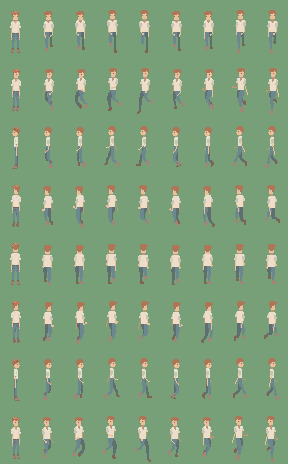
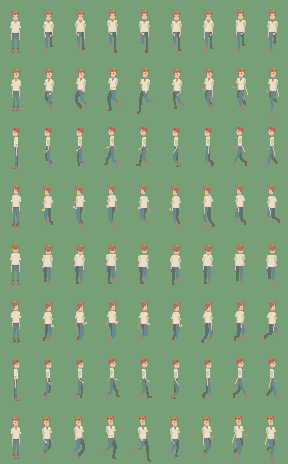
Walk frames: take the hair/face and shirt fabric detail from the standing poses
Claude-Session: https://claude.ai/code/session_01Xiux81LEqjvUithNNjQsjc

diff --git a/tools/make_hero_sheet.py b/tools/make_hero_sheet.py
@@ -73,6 +73,42 @@ for d in range(8):
     ci, fl = WALK_SRC[d]
     for r in range(8): frames[d, r + 1] = flip(walk_cells[ci, r]) if fl else walk_cells[ci, r]
 
+# ---- detail transfer: the walk frames are rougher than the standing poses, so each walk frame's head (hair texture, face, eyes) is replaced by the
+# standing pose's head of the same direction. The head is whatever lies above the first shirt pixel; it is aligned by its top row and its centre.
+SHIRT = {c for c, r in ROLE.items() if r == 'shirt'}
+def hx(px): return '%02x%02x%02x' % tuple(px[:3])
+def head_rows(c):  # (first opaque row, first shirt row)
+    rows = [y for y in range(CH) if c[y, :, 3].any()]; top = rows[0]
+    sh = next(y for y in range(CH) if any(c[y, x, 3] and hx(c[y, x]) in SHIRT for x in range(CW)))
+    return top, sh
+def head_cx(c, top, sh):
+    xs = [x for y in range(top, sh) for x in range(CW) if c[y, x, 3]]; return (min(xs) + max(xs) + 1) / 2
+for d in range(8):
+    src = frames[d, 0]; st, ss = head_rows(src); scx = head_cx(src, st, ss)
+    for f in range(1, 9):
+        c = frames[d, f]; wt, ws = head_rows(c); wcx = head_cx(c, wt, ws); dx = int(round(wcx - scx))
+        c[wt:ws, :, :] = 0                                         # clear the old head (the arms start below the first shirt row)
+        for y in range(st, ss):
+            for x in range(CW):
+                if src[y, x, 3]:
+                    ty, tx = wt + (y - st), x + dx
+                    if 0 <= ty < ws + (ss - st - (ws - wt)) and 0 <= tx < CW and ty < CH: c[ty, tx] = src[y, x]
+        # if the standing head is taller than the room above the shirt the extra rows were written onto the shoulders; that only happens when the heads differ in height by a pixel or two
+
+# the shirt's fabric texture (the light flecks and folds of the standing pose) is overlaid on the main shirt colour of the walk frames, aligned by shirt top and centre
+def shirt_box(c, sh):
+    xs = [x for y in range(sh, min(CH, sh + 14)) for x in range(CW) if c[y, x, 3] and hx(c[y, x]) in SHIRT]; return (min(xs) + max(xs) + 1) / 2
+for d in range(8):
+    src = frames[d, 0]; _, ss = head_rows(src); scx = shirt_box(src, ss)
+    for f in range(1, 9):
+        c = frames[d, f]; _, ws = head_rows(c); dx = int(round(shirt_box(c, ws) - scx))
+        for y in range(14):
+            for x in range(CW):
+                sy, sx = ss + y, x
+                if sy < CH and src[sy, sx, 3] and hx(src[sy, sx]) in ('ddceba', 'e7e5e2'):
+                    ty, tx = ws + y, sx + dx
+                    if ty < CH and 0 <= tx < CW and c[ty, tx, 3] and hx(c[ty, tx]) == 'ebdfcc': c[ty, tx] = src[sy, sx]
+
 # ---- palette entries (role, colour); the shared eye/boot colour becomes two entries
 entries, index = [], {}
 cnt = collections.Counter()
